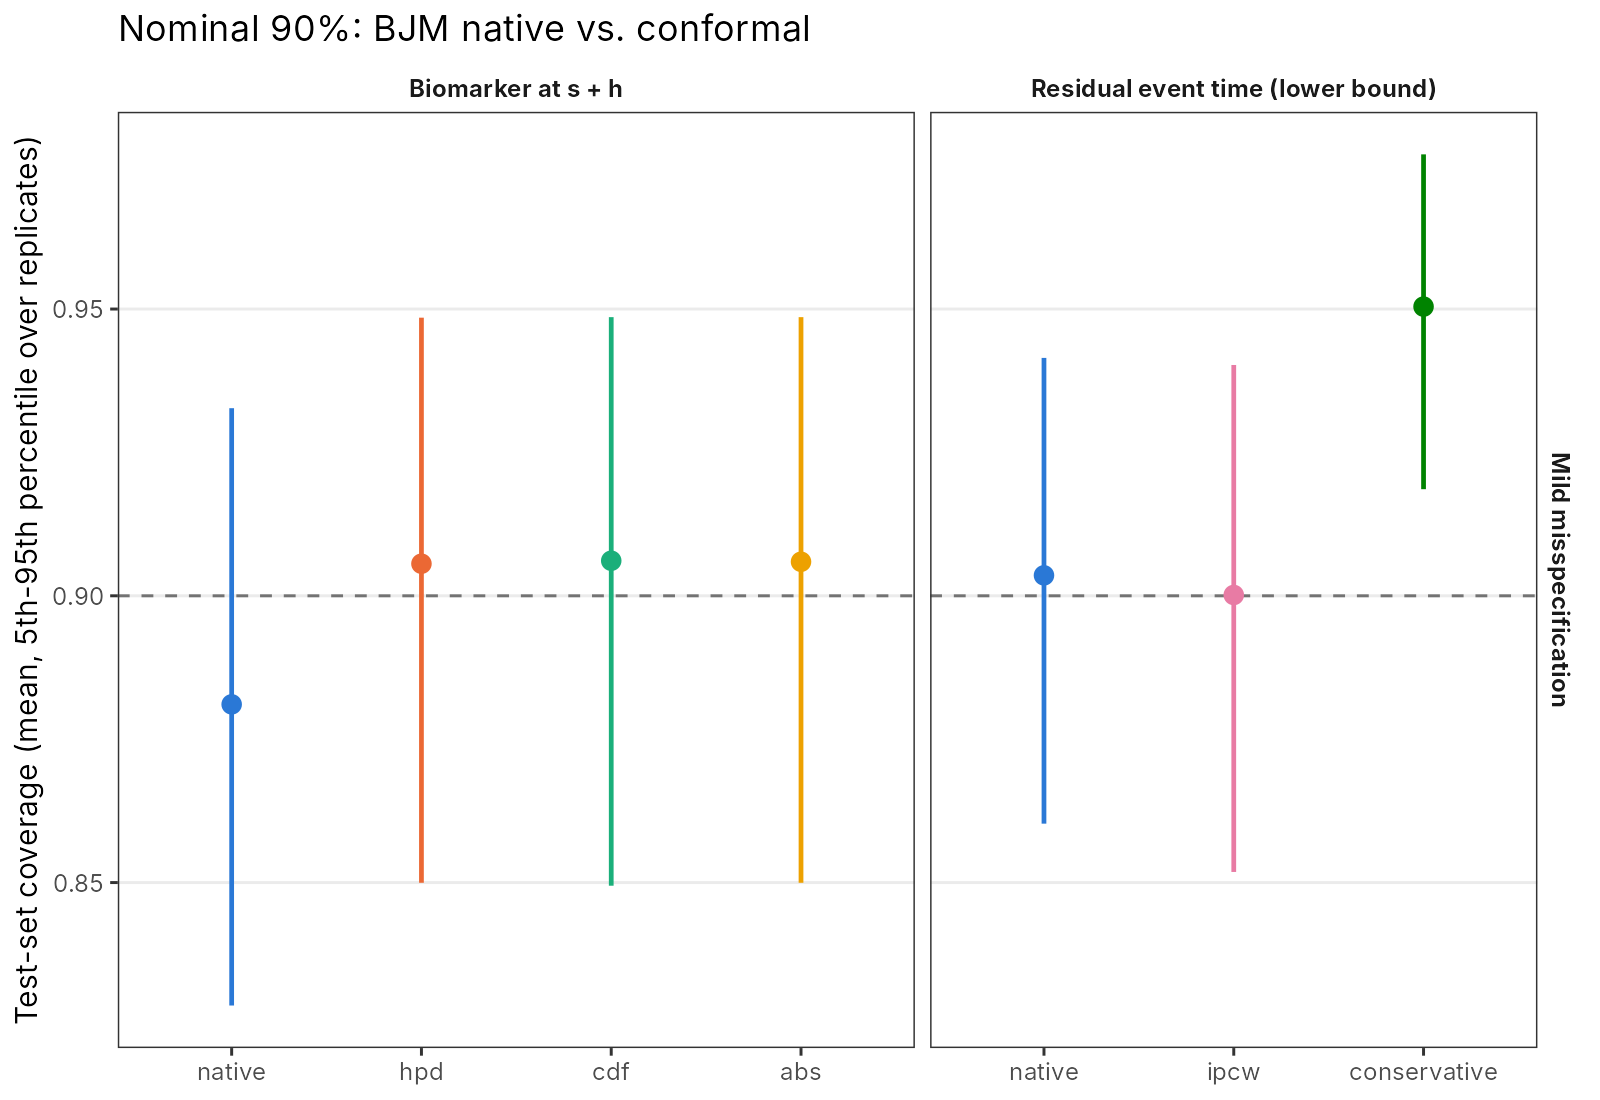
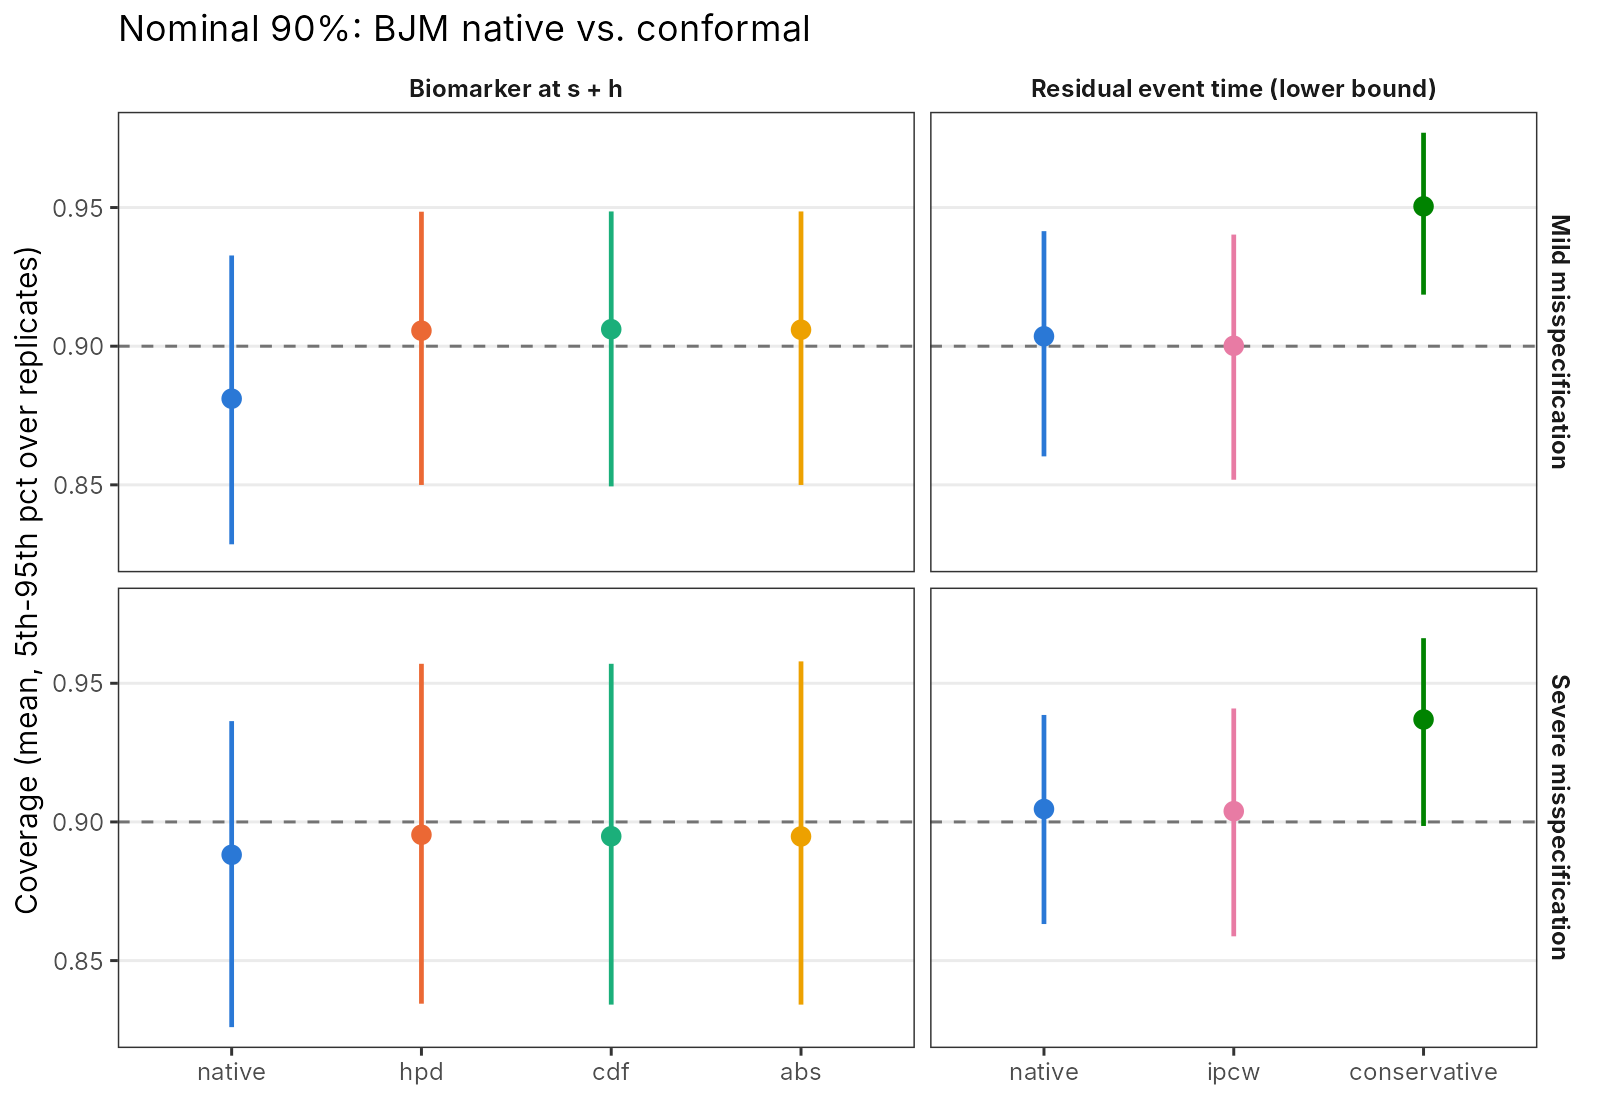
Add severe-scenario results, figures and README results section
Claude-Session: https://claude.ai/code/session_01JSaw1591Py8bPjLGNMg76m

diff --git a/README.md b/README.md
@@ -70,15 +70,64 @@ va <- do.call(vennAbersRisk,
 
 ## 结果
 
-RESULTS_PLACEHOLDER
+名义覆盖率都是 90%（α = 0.1）。所有数字都可以由 `results/summary_*.csv` 复现。
+
+### 模拟（`sim/`，每个场景 100 次重复）
+
+数据由**前向**的共享随机效应联合模型生成：生物标志物轨迹驱动风险函数。所以 BJM 的后向模型 Y | T 在两个场景里都是错设的。
+
+- **mild**：线性轨迹，高斯误差。
+- **severe**：二次轨迹，t₃ 异方差误差，风险同时依赖当前值和斜率，另有一个两边都遗漏的协变量。
+
+每次重复用 400 人拟合、300 人校准、300 人测试。测试集的结局完全已知，所以覆盖率是精确算出来的，不是估计。landmark s = 2，h = 2。
+
+![sim](results/fig_coverage_sim.png)
+
+| 目标 | 方法 | mild 覆盖 | severe 覆盖 | 宽度 / 下界中位数（mild, severe） |
+|---|---|---|---|---|
+| 生物标志物 | BJM 原生 | 0.881 | 0.888 | 2.91, 3.09 |
+| | 保形 hpd | **0.906** | **0.895** | 3.12, 3.15 |
+| | 保形 cdf | 0.906 | 0.895 | 3.14, 3.18 |
+| 剩余事件时间下界 | BJM 原生 | 0.904 | 0.905 | 0.95, 0.63 年 |
+| | 保形 ipcw | **0.900** | **0.904** | 0.98, 0.63 年 |
+| | 保形 conservative | 0.950 | 0.937 | 0.47, 0.43 年 |
+
+| 风险（2 年窗） | 预测均值 − 观测均值 | ECE | Brier | [p₀, p₁] 宽度 |
+|---|---|---|---|---|
+| BJM（mild / severe） | +0.008 / +0.005 | 0.073 / 0.085 | 0.163 / 0.204 | – |
+| Venn–Abers（mild / severe） | +0.020 / −0.000 | 0.068 / 0.083 | 0.163 / 0.206 | 0.035 / 0.041 |
+
+**怎么读这些结果：**
+
+1. **生物标志物。** BJM 原生区间在两个场景下都偏低 1–2 个百分点。保形区间把覆盖率拉回到 0.90 附近：每次重复的覆盖率标准差约 0.04，所以平均值的蒙特卡洛标准误约 0.004，severe 场景的 0.895 在误差范围内。代价是区间宽度增加 2–7%。三种分数结果几乎一样；按预测值三分位分组的条件覆盖见 `summary_sim_conditional.csv`。
+2. **坦白地说，BJM 比预期稳健。** 即使在 severe 场景里，原生区间也只差 1.2 个百分点，事件时间的原生下界更是已经达标。所以保形在这里的作用是**提供保证**，而不是修复一个严重失效的模型。要展示原生区间明显失效，需要更极端的错设；这还没做。
+3. **事件时间。** ipcw 版本和名义值一致，下界和原生下界差不多紧。conservative 版本对任何删失机制都有效，代价是下界大约只有一半长。
+4. **风险。** Venn–Abers 在模拟中带来的改进很小，ECE 降低 2–7%。在 BJM 已经校准良好的时候，这符合预期。
+
+### pbc3（`analysis/pbc3_splits.R`，60 次随机拆分）
+
+模型和 vignette 一样：4 个标志物，复合终点，landmark 3 年，horizon 2 年。每次拆分 50% 拟合、25% 校准、25% 测试。测试集的结局有删失，所以生物标志物的覆盖率只在 s+h ± 0.5 年内有测量的测试病人上计算（每次拆分约 36 人），事件时间的覆盖率用 IPCW 估计。
+
+![pbc3](results/fig_pbc3.png)
+
+| | BJM 原生 | 保形 |
+|---|---|---|
+| 胆红素区间覆盖 | 0.924 | 0.907（hpd），宽度 2.17 对 2.32 |
+| 白蛋白区间覆盖 | 0.893 | 0.901（hpd），宽度 1.50 对 1.41 |
+| 事件时间下界覆盖（IPCW） | 0.917 | ipcw 0.914 / conservative 0.940 |
+| 2 年风险均值（观测 KM 0.147） | 0.174 | Venn–Abers 合并 0.202，[p₀, p₁] 平均 [0.12, 0.24] |
+
+- **生物标志物：** 保形把胆红素区间收窄了（原生区间偏宽），把白蛋白区间放宽了（原生区间偏窄）。
+- **拆分之间波动大：** 每次拆分的覆盖率在 0.77 到 1.00 之间。原因是每次拆分只有约 30 个校准病人：保证对拆分取平均成立，单次拆分的波动很大。
+- **Venn–Abers 在 pbc3 上不建议用合并点估计。** 每次拆分的校准集里只有约 8 个事件，p₁ 被拉高，合并点因此偏高（0.20，观测 0.15）。测试点的权重不是原因：取 1 或取平均权重，结果几乎一样。区间 [p₀, p₁] 本身夹住了观测值。小样本时应该报告区间。
 
 ## 复现
 
 ```bash
 R CMD INSTALL .
-Rscript sim/run_sim.R mild 100 3      # 约 45 分钟（3 核）
-Rscript sim/run_sim.R severe 100 3
-Rscript analysis/pbc3_splits.R 60 1   # 约 60 分钟
+Rscript sim/run_sim.R mild 100 3      # 约 50 分钟（3 核）
+Rscript sim/run_sim.R severe 100 3    # 约 50 分钟
+Rscript analysis/pbc3_splits.R 60 1   # 约 55 分钟
 Rscript analysis/summarise.R          # 汇总表和图
 ```
 
@@ -86,8 +135,9 @@ Rscript analysis/summarise.R          # 汇总表和图
 
 ## 局限
 
-- **数据利用**：split conformal 要拿出一部分病人做校准。pbc3 只有 312 人，每次拆分大约 30 个校准病人有 s+h 附近的测量，q̂ 在拆分之间波动较大。下一步可以做 CV+ / jackknife+，代价是要重新拟合 K 次。
+- **数据利用**：split conformal 要拿出一部分病人做校准。pbc3 只有 312 人，每次拆分大约 30 个校准病人有 s+h 附近的测量，q̂ 和单次拆分的覆盖率波动都很大（0.77–1.00）；校准集里只有约 8 个事件，所以 Venn–Abers 的合并点估计偏高。下一步可以做 CV+ / jackknife+，代价是要重新拟合 K 次。
 - **边际而非条件**：保证是对病人边际的，按预测值分组的条件覆盖只能经验检查（见模拟结果中的三分位表）。
 - **单一 (s, h)**：保证针对一个固定的 landmark 和 horizon。多个 landmark 要分别校准；如果把多个 landmark 合在一起，同一个病人会贡献多个分数，可交换性就不成立了。
 - **竞争风险**：`conformalEventTime()` 和 `vennAbersRisk()` 目前只处理 `risk_prob_1` 和右删失的 Surv(time, status)。
+- **还缺一个强错设场景**：现有的模拟里 BJM 原生区间只差 1–2 个百分点，不足以展示保形在模型严重失效时的作用。
 - **网格误差**：`predictLongitudinal()` 的密度网格和 `predictRisk()` 的 horizon 网格都有离散误差。这些误差只会让保形得分有点粗糙，不影响有效性：有效性只依赖可交换性。
